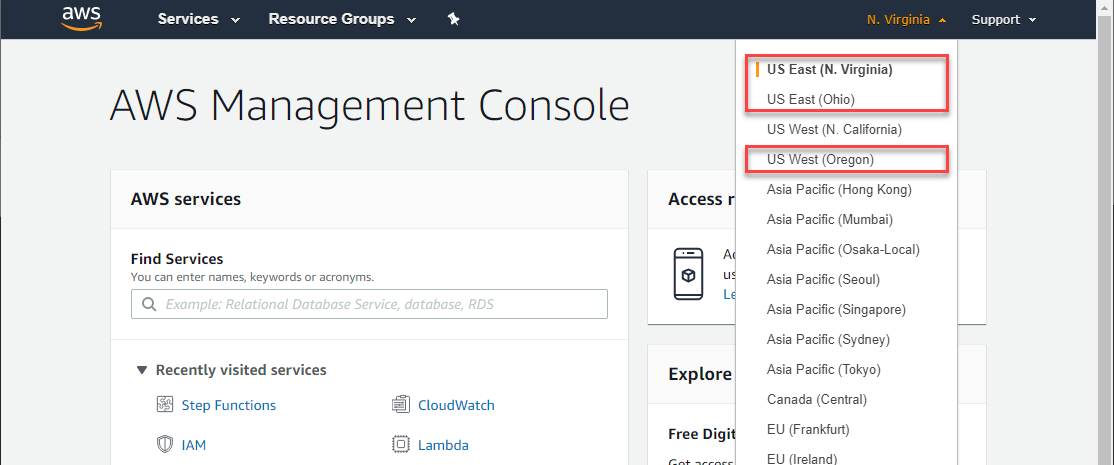
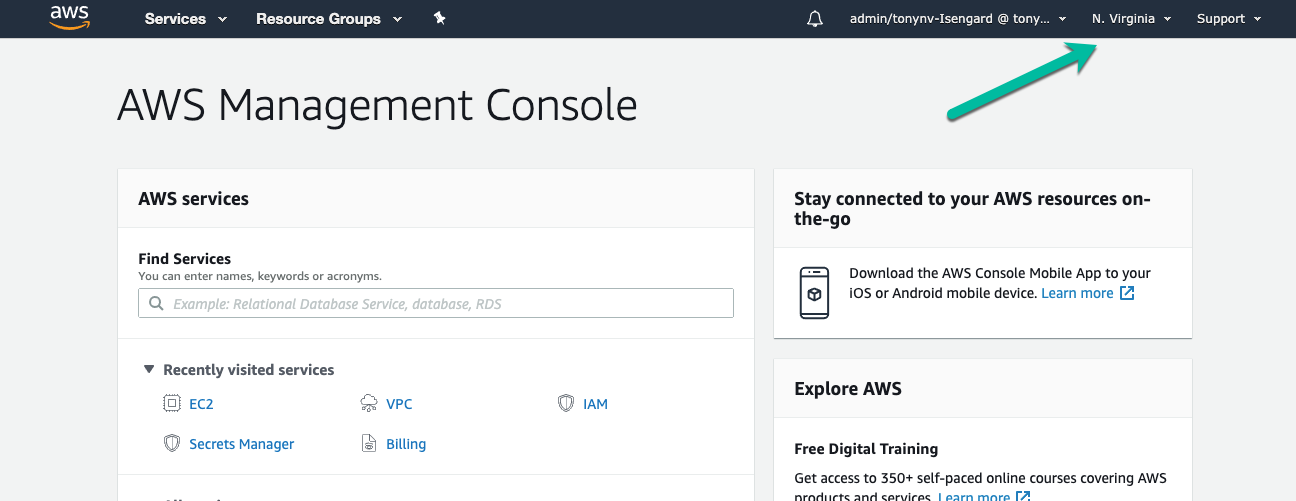
Update screenshorts for Getting Started

diff --git a/content/10_Getting_Started/1_aws_event_engine.md b/content/10_Getting_Started/1_aws_event_engine.md
@@ -28,8 +28,8 @@ This account will expire at the end of the workshop and the all the resources cr
 
 Use a single region for the duration of this workshop. This workshop supports the following regions:
 
-- us-west-2 (US West - Oregon)
+- us-east-1 (N. Virginia)
 
-Please select `US West - Oregon` in the top right corner.
+Please select `N. Virginia` in the top right corner.
 
 ![Step 3](/images/getting_started/c9-step3.png)

diff --git a/content/10_Getting_Started/2_aws_workshop_account.md b/content/10_Getting_Started/2_aws_workshop_account.md
@@ -33,11 +33,11 @@ as an **IAM user** with administrator access to the AWS account
 
 6. Take note of the login URL and save:
 
-{{% notice note %}}
+  - Click Show access key 
+
+{{% notice tip %}}
 Leave this tab open we will need these creds in the next lab
 {{% /notice %}}
-
-  - Click Show access key 
 
 ![Login URL](/images/getting_started/iam-4-save-url.png)
 
